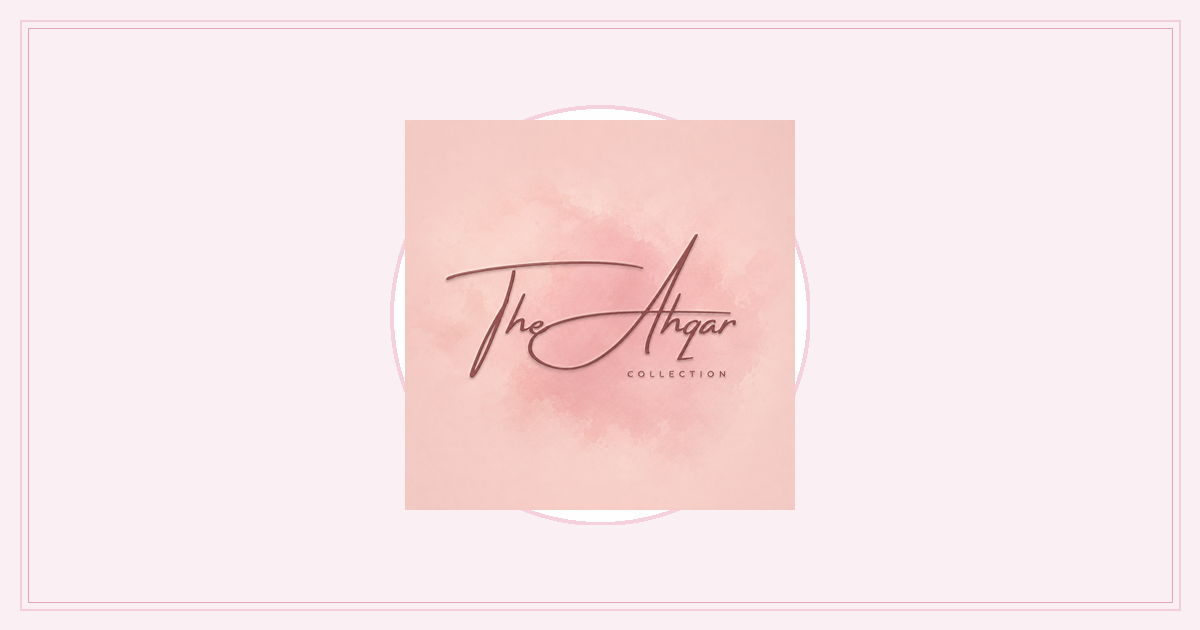
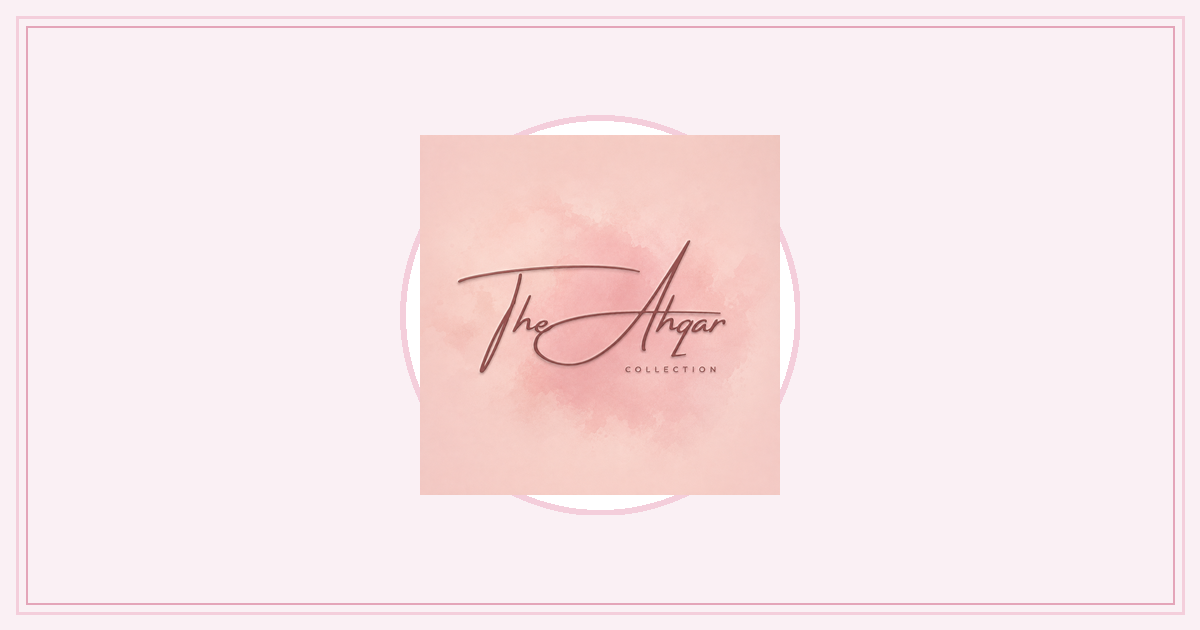
Fix Open Graph social preview image

Changed region(s): [[0.0, 0.0, 0.9867, 0.9952], [0.3083, 0.1508, 0.6783, 0.8444]]

diff --git a/index.html b/index.html
@@ -9,21 +9,25 @@
     <meta name="viewport" content="width=device-width, initial-scale=1.0" />
     
     <!-- Basic SEO Metadata -->
-    <title>The Ahqar Collection | Elegant Indian Abayas</title>
+    <title>The Ahqar Collection | Premium Indian Abayas & Modest Couture</title>
     <meta name="description" content="Discover elegant and premium Indian Abayas from The Ahqar Collection." />
     <meta name="keywords" content="The Ahqar Collection, Abaya, Indian Abaya, Modest Fashion, Luxury Abaya, Designer Abaya, Islamic Wear" />
     
-    <!-- Open Graph (OG) Metadata for Social Sharing -->
-    <meta property="og:title" content="The Ahqar Collection" />
-    <meta property="og:description" content="Elegant Indian Abayas — The Ahqar Collection" />
-    <meta property="og:image" content="https://the-ahqar-collection.vercel.app/images/og-image.png" />
+    <!-- Open Graph (OG) Metadata for WhatsApp & Social Sharing -->
     <meta property="og:type" content="website" />
-    <meta property="og:url" content="https://the-ahqar-collection.vercel.app" />
+    <meta property="og:title" content="The Ahqar Collection | Premium Indian Abayas & Modest Couture" />
+    <meta property="og:description" content="Discover elegant and premium Indian Abayas from The Ahqar Collection." />
+    <meta property="og:image" content="https://the-ahqar-collection.vercel.app/images/og-image.png" />
+    <meta property="og:image:secure_url" content="https://the-ahqar-collection.vercel.app/images/og-image.png" />
+    <meta property="og:image:type" content="image/png" />
+    <meta property="og:image:width" content="1200" />
+    <meta property="og:image:height" content="630" />
+    <meta property="og:url" content="https://the-ahqar-collection.vercel.app/" />
 
     <!-- Twitter / X Card Metadata -->
     <meta name="twitter:card" content="summary_large_image" />
-    <meta name="twitter:title" content="The Ahqar Collection" />
-    <meta name="twitter:description" content="Elegant Indian Abayas — The Ahqar Collection" />
+    <meta name="twitter:title" content="The Ahqar Collection | Premium Indian Abayas & Modest Couture" />
+    <meta name="twitter:description" content="Discover elegant and premium Indian Abayas from The Ahqar Collection." />
     <meta name="twitter:image" content="https://the-ahqar-collection.vercel.app/images/og-image.png" />
     
     <!-- Google Fonts -->
